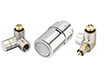
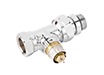
info-panel fixes, valves variants are displayed as tiles now

Changed region(s): [[0.0, 0.1867, 0.9519, 0.8533]]

diff --git a/common/views/room_content.htm b/common/views/room_content.htm
@@ -101,26 +101,48 @@
                 </p>
             </div>
             <div class="info-clause">
-                <h3>
-                    Проводной
+                <h3 class="table-like">
+                    <span>
+                        Проводной  RMT230
+                    </span>
+                    <img src="common/img/products/config-prod-termo-2.png" alt="Проводной комнатный термостат"/>
                 </h3>
                 <p>
+                    Обеспечивает точный температурный контроль.
                 </p>
             </div>
             <div class="info-clause">
-                <h3>
-                    Программируемый проводной
+                <h3 class="table-like">
+                    <span>
+                          Простой беспроводной RET B-RF
+                    </span>
+                    <img src="common/img/products/config-prod-termo-2-wi.png" alt="Беспроводной комнатный термостат" />
                 </h3>
+                <p>
+                    Обеспечивает точный электронный температурный контроль без потребности во внешнем источнике питания. Оснащен ЖК дисплеем, на котором отображается температура в комнате
+                </p>
             </div>
             <div class="info-clause">
-                <h3>
-                    Простой беспроводной
+                <h3 class="table-like">
+                    <span>
+                        Программируемый проводной TP5001MA
+                    </span>
+                    <img src="common/img/products/config-prod-termo-1.png" alt="Программируемый проводной комнатный термостат" />
                 </h3>
+                <p>
+                    Пользователь может настроить до 6 автоматических изменений температуры в помещении в день для любого дня недели.
+                </p>
             </div>
             <div class="info-clause">
-                <h3>
-                    Программируемый беспроводной
+                <h3 class="table-like">
+                    <span>
+                        Программируемый беспроводной TP5001A-RF
+                    </span>
+                    <img src="common/img/products/config-prod-termo-1-wi.png" alt="Программируемый беспроводной комнатный термостат" />
                 </h3>
+                <p>
+                    Пользователь может настроить до 6 автоматических изменений температуры в помещении в день для любого дня недели. Не требует подключения к внешнему источнику питания.
+                </p>
             </div>
         </div>
     </div>
@@ -229,11 +251,11 @@
             <div class="info-clause">
                 <div class="icon">
                     <div>Клипсовое соединение RA</div>
-                    <img src="common/img/products/config-prod-living-eco.png" alt="Клипсовым соединеним RA" />
+                    <img src="common/img/info/valve-ra.png" alt="Клипсовым соединеним RA" />
                 </div>
                 <div class="icon">
                     <div>Резьбовое соединение M30x1,5</div>
-                    <img src="common/img/products/config-prod-living-eco.png" alt="Резьбовое соединение M 30 x 1,5" />
+                    <img src="common/img/info/valve-m30x1,5.png" alt="Резьбовое соединение M 30 x 1,5" />
                 </div>
             </div>
         </div>
@@ -290,18 +312,18 @@
             <div class="info-clause">
                 <h3 class="table-like">
                     <span>
-                        Термостат Living eco электронный
+                        Living eco электронный
                     </span>
                     <img src="common/img/products/config-prod-living-eco.png" alt="Термостат Living eco электронный" />
                 </h3>
                 <p>
-                    Программируемый микропроцессорный регулятор для поддержания заданной температуры воздуха. В Living eco® установлены программы P0, P1 и P2, которые позволяют регулировать температуру в помещении в различные периоды суток. Обеспечивает экономию до 46%.
+                    Программируемый микропроцессорный регулятор для поддержания заданной температуры воздуха. Обеспечивает экономию до 46%.
                 </p>
             </div>
             <div class="info-clause">
                 <h3 class="table-like">
                     <span>
-                        Термостат RA2994 с газовым наполнением
+                        RA2994 с газовым наполнением
                     </span>
                     <img src="common/img/products/config-prod-ra.png" alt="Термостат RA2994 с газовым наполнением" />
                 </h3>
@@ -314,7 +336,7 @@
                     <span>
                         Термостат RAW-K с жидкостным наполнением
                     </span>
-                    <img src="common/img/products/config-prod-ra.png" alt="Термостат RAW-K с жидкостным наполнением" />
+                    <img src="common/img/info/valve-raw-k.png" alt="Термостат RAW-K с жидкостным наполнением" />
                 </h3>
                 <p>
                     Термостатический элемент серии RAW-K оснащен сильфоном с жикостным наполнением, что обеспечивает время реакции 25 минут и экономию до 31%.
@@ -396,7 +418,7 @@
         </div>
     </div>
 
-    <div class="info-panel autoscroll" ng-show="INFO.visible('designvalves')">
+    <div class="info-panel autoscroll" ng-show="INFO.visible('valves2')">
         <div class="btn-close" ng-click="INFO.hide()"></div>
         <h2>
             Исполнение клапанов
@@ -407,19 +429,48 @@
                     <div>
                         Никелированный
                     </div>
-                    <img src="common/img/info/valve-nickel.png" alt="Никелированный клапан" />
+                    <img src="common/img/info/valve-nickel.png" alt="Никелированный" />
                 </div>
                 <div class="icon">
                     <div>
                         Хромированный
                     </div>
-                    <img src="common/img/info/valve-chrome.png" alt="Хромированный клапан" />
+                    <img src="common/img/info/valve-chrome.png" alt="Хромированный" />
                 </div>
                 <div class="icon">
                     <div>
                         Прессовое соединение
                     </div>
-                    <img src="common/img/info/valve-white.png" alt="Прессовое соединение" />
+                    <img src="common/img/info/valve-pressed.png" alt="Прессовое соединение" />
+                </div>
+            </div>
+        </div>
+    </div>
+
+    <div class="info-panel autoscroll" ng-show="INFO.visible('designvalves')">
+        <div class="btn-close" ng-click="INFO.hide()"></div>
+        <h2>
+            Исполнение клапанов
+        </h2>
+        <div class="info-scroller autoscroll">
+            <div class="info-clause">
+                <div class="icon">
+                    <div>
+                        Белый
+                    </div>
+                    <img src="common/img/info/valve-design-white.png" alt="Никелированный клапан" />
+                </div>
+                <div class="icon">
+                    <div>
+                        Хромированный
+                    </div>
+                    <img src="common/img/info/valve-design-chrome.png" alt="Хромированный клапан" />
+                </div>
+                <div class="icon">
+                    <div>
+                        Нержавеющая сталь
+                    </div>
+                    <img src="common/img/info/valve-design-stainless-steel.png" alt="Нержавеющая сталь" />
                 </div>
             </div>
         </div>

diff --git a/common/views/room_sidebar.htm b/common/views/room_sidebar.htm
@@ -40,6 +40,7 @@
 							RADIATOR.control = RADIATORS.controlType == 2 && RADIATORS.commonControl || (PARAMS.radiators.control | filter: {builtinValve: RADIATOR.builtinValve, controlType: RADIATORS.controlType})[0].id;
                             RADIATOR.valves = (PARAMS.radiators.valves | filter: ((RADIATOR.type == 1 && {type: 1, connection: RADIATOR.connection, builtinValve: RADIATOR.builtinValve, pipework: RADIATOR.pipework, control: RADIATORS.commonControl}) || {use: RADIATOR.use}))[0].id;
                             RADIATOR.preview_valves = RADIATOR.valves;
+                            UPDATE_EXTERNAL_VIEW_ITEMS();
 						">
                     </label>
                 </div>
@@ -106,6 +107,7 @@
                                     RADIATOR.preview_valves = RADIATOR.valves;
                                     RADIATOR.connectSide = 1;
                                     RADIATOR.use = 1;
+                                    UPDATE_EXTERNAL_VIEW_ITEMS();
 								">
                             </label>
                         </div>
@@ -122,7 +124,9 @@
                                            ng-change="
                                     RADIATOR.valves = (PARAMS.radiators.valves | filter: ({type: 2, use: RADIATOR.use, connectSide: RADIATOR.connectSide }))[0].id;
                                     RADIATOR.fittingsType = PARAMS.radiators.valves[RADIATOR.valves-1].fittingsType;
-                                    RADIATOR.connectSide = 1;">
+                                    RADIATOR.connectSide = 1;
+                                    UPDATE_EXTERNAL_VIEW_ITEMS();
+                                           ">
                                 </label>
                             </div>
                         </div>
@@ -136,13 +140,22 @@
                                            ng-value="{{ITEM.id}}"
                                            ng-change="
                                     RADIATOR.valves = (PARAMS.radiators.valves | filter: ({type: 2, use: RADIATOR.use, connectSide: RADIATOR.connectSide}))[0].id;
-                                    RADIATOR.fittingsType = PARAMS.radiators.valves[RADIATOR.valves-1].fittingsType;">
+                                    RADIATOR.fittingsType = PARAMS.radiators.valves[RADIATOR.valves-1].fittingsType;
+                                    UPDATE_EXTERNAL_VIEW_ITEMS();">
                                 </label>
                             </div>
                         </div>
-                        <div class="field">
+                        <div class="field hidden-{{!EXTERNAL_VIEW_ITEMS.any}}" ng-if="EXTERNAL_VIEW_ITEMS.hasExternalView">
                             <h3>Исполнение <i class="icon-info" ng-click="INFO.toggle('designvalves')" ng-class="{'active' : INFO.visible('designvalves')}"></i><i class="info-pointer"></i></h3>
-                            <select ng-options="ITEM.id as ITEM.name for ITEM in GET_EXTERNAL_VIEW_ITEMS()" ng-model="RADIATOR.valves"></select>
+                            <div class="selectbox clearfix">
+                                <label class="option-{{RADIATOR.valves == ITEM.id}}"
+                                       ng-repeat="ITEM in EXTERNAL_VIEW_ITEMS.items">
+                                    <span class="pseudo-radio">
+                                        <input type="radio" ng-model="RADIATOR.valves" ng-value="{{ITEM.id}}">
+                                    </span>
+                                    <span class="title"><img src="{{PREVIEW_VALVE(ITEM.externalView)}}" title="{{ITEM.name}}" /><br>{{ITEM.name}}</span>
+                                </label>
+                            </div><!-- .selectbox -->
                         </div>
                     </div>
                     <div ng-if="RADIATOR.type == 1">
@@ -160,6 +173,7 @@
 										RADIATOR.valves = (PARAMS.radiators.valves | filter: ((RADIATOR.type == 1 && {type: 1, connection: RADIATOR.connection, builtinValve: RADIATOR.builtinValve, pipework: RADIATOR.pipework, control: RADIATOR.control}) || {use: RADIATOR.use}))[0].id;
 										RADIATOR.fittingsType = PARAMS.radiators.valves[RADIATOR.valves-1].fittingsType;
                                         RADIATOR.preview_valves = RADIATOR.valves;
+                                        UPDATE_EXTERNAL_VIEW_ITEMS();
 									">
                                 </label>
                             </div>
@@ -173,6 +187,7 @@
 								RADIATOR.valves = (PARAMS.radiators.valves | filter: ((RADIATOR.type == 1 && {type: 1, connection: RADIATOR.connection, builtinValve: RADIATOR.builtinValve, pipework: RADIATOR.pipework, control: RADIATOR.control}) || {use: RADIATOR.use}))[0].id;
                                 RADIATOR.preview_valves = RADIATOR.valves;
                                 RADIATOR.fittingsType = PARAMS.radiators.valves[RADIATOR.valves-1].fittingsType;
+                                UPDATE_EXTERNAL_VIEW_ITEMS();
 							"></select>
                         </div>
                         <div class="field">
@@ -183,6 +198,7 @@
 								RADIATOR.valves = (PARAMS.radiators.valves | filter: ((RADIATOR.type == 1 && {type: 1, connection: RADIATOR.connection, builtinValve: RADIATOR.builtinValve, pipework: RADIATOR.pipework, control: RADIATOR.control}) || {use: RADIATOR.use}))[0].id;
                                 RADIATOR.preview_valves = RADIATOR.valves;
                                 RADIATOR.fittingsType = PARAMS.radiators.valves[RADIATOR.valves-1].fittingsType;
+                                UPDATE_EXTERNAL_VIEW_ITEMS();
 							"></select>
                         </div>
                         <div class="field hidden-{{RADIATORS.controlType == 2}}">
@@ -229,13 +245,27 @@
                                            ng-value="{{ITEM.id}}"
                                            ng-change="
                                     RADIATOR.valves = ((RADIATOR.preview_valves == 3 || RADIATOR.preview_valves == 4) && RADIATOR.connectSide == 2) ? RADIATOR.preview_valves + 2 : RADIATOR.preview_valves;
-                                    RADIATOR.fittingsType = PARAMS.radiators.valves[RADIATOR.valves-1].fittingsType;">
+                                    RADIATOR.fittingsType = PARAMS.radiators.valves[RADIATOR.valves-1].fittingsType;
+                                    UPDATE_EXTERNAL_VIEW_ITEMS();
+                                ">
                                 </label>
                             </div>
                         </div>
-                        <div class="field hidden-{{GET_EXTERNAL_VIEW_ITEMS().length == 0}}">
+                        <div class="field hidden-{{!EXTERNAL_VIEW_ITEMS.any}}" ng-if="!EXTERNAL_VIEW_ITEMS.hasExternalView">
                             <h3>Исполнение <i class="icon-info" ng-click="INFO.toggle('valves')" ng-class="{'active' : INFO.visible('valves')}"></i><i class="info-pointer"></i></h3>
-                            <select ng-options="ITEM.id as ITEM.name for ITEM in GET_EXTERNAL_VIEW_ITEMS()" ng-model="RADIATOR.valves"></select>
+                            <select ng-options="ITEM.id as ITEM.name for ITEM in EXTERNAL_VIEW_ITEMS.items" ng-model="RADIATOR.valves"></select>
+                        </div>
+                        <div class="field hidden-{{!EXTERNAL_VIEW_ITEMS.any}}" ng-if="EXTERNAL_VIEW_ITEMS.hasExternalView">
+                            <h3>Исполнение <i class="icon-info" ng-click="INFO.toggle('valves2')" ng-class="{'active' : INFO.visible('valves2')}"></i><i class="info-pointer"></i></h3>
+                            <div class="selectbox clearfix">
+                                <label class="option-{{RADIATOR.valves == ITEM.id}}"
+                                       ng-repeat="ITEM in EXTERNAL_VIEW_ITEMS.items">
+                                    <span class="pseudo-radio">
+                                        <input type="radio" ng-model="RADIATOR.valves" ng-value="{{ITEM.id}}">
+                                    </span>
+                                    <span class="title"><img src="{{PREVIEW_VALVE(ITEM.externalView)}}" title="{{ITEM.name}}" /><br>{{ITEM.name}}</span>
+                                </label>
+                            </div><!-- .selectbox -->
                         </div>
                     </div>
                 </div>

diff --git a/common/js/app-controllers.js b/common/js/app-controllers.js
@@ -589,10 +589,13 @@ appConfigurator.controller('RoomCtrl', function ($scope, $stateParams, Configura
 	        $scope.PARAMS.distinctValves.push(el);
 	}
 
-    $scope.GET_EXTERNAL_VIEW_ITEMS = function() {
+	$scope.UPDATE_EXTERNAL_VIEW_ITEMS = function () {
         var all = Configurator.params.room.radiators.externalView;
         var res = [];
         var preview = Configurator.params.room.radiators.valves[$scope.RADIATOR.valves - 1].preview;
+        var getItem = function(el) {
+            return { id: el.id, name: all[el.externalView - 1].name, hasExternalView: el.externalView < 4 || el.externalView > 5, externalView: el.externalView }
+        };
 
         if ($scope.RADIATOR.type == 1) {
             for (var i in Configurator.params.room.radiators.valves) {
@@ -605,7 +608,7 @@ appConfigurator.controller('RoomCtrl', function ($scope, $stateParams, Configura
                         && el.controlType == $scope.RADIATORS.controlType
                 ) {
                     if (el.externalView > 0) {
-                        res.push({ id: el.id, name: all[el.externalView - 1].name });
+                        res.push(getItem(el));
                     }
                 }
             }
@@ -616,16 +619,59 @@ appConfigurator.controller('RoomCtrl', function ($scope, $stateParams, Configura
                         && el.use == $scope.RADIATOR.use
                         && el.connectSide == $scope.RADIATOR.connectSide
                 ) {
-                    if (el.externalView > 0)
-                        res.push({ id: el.id, name: all[el.externalView - 1].name });
+                    if (el.externalView > 0) {
+                        res.push(getItem(el));
+                    }
                 }
             }
         }
-        return res;
-    };
+
+        $scope.EXTERNAL_VIEW_ITEMS = { items: res, any: res.length > 0, hasExternalView: res.length > 0 && res[0].hasExternalView };
+	    return $scope.EXTERNAL_VIEW_ITEMS;
+	};
+
+	$scope.UPDATE_EXTERNAL_VIEW_ITEMS();
 
     $scope.PREVIEW = function(valves) {
         return "common/img/radiator-preview/" + Configurator.params.room.radiators.valves[valves - 1].preview + ".png";
+    };
+
+    $scope.PREVIEW_VALVE = function(externalViewId, design) {
+        design = design && true;
+        var name = '';
+        switch (externalViewId) {
+        case 1:
+        {
+            name = 'valve-nickel';
+            break;
+        }
+        case 2:
+        {
+            name = 'valve-pressed';
+            break;
+        }
+        case 3:
+        {
+            name = design ? 'valve-design-chrome' : 'valve-chrome';
+            break;
+        }
+        case 6:
+        {
+            name = 'valve-design-white';
+            break;
+        }
+        case 7:
+        {
+            name = 'valve-design-stainless-steel';
+            break;
+        }
+        default:
+        {
+            name = 'valve-design-stainless-steel';
+        }
+        }
+
+        return 'common/img/info/' + name + '.png';
     };
 
     $scope.VIEW = function (radiator) {

diff --git a/common/js/app-db.js b/common/js/app-db.js
@@ -58,7 +58,7 @@ var APP_PARAMS = {
                 { id: 4, name: 'Радиатор G1/2"' },
                 { id: 5, name: 'Радиатор G3/4"' },
                 { id: 6, name: 'Холодно белый' },
-                { id: 6, name: 'Нержавеющая сталь' }
+                { id: 7, name: 'Нержавеющая сталь' }
             ],
             side: [ // сторона
                 {id: 1, name: 'Радиатор'},
